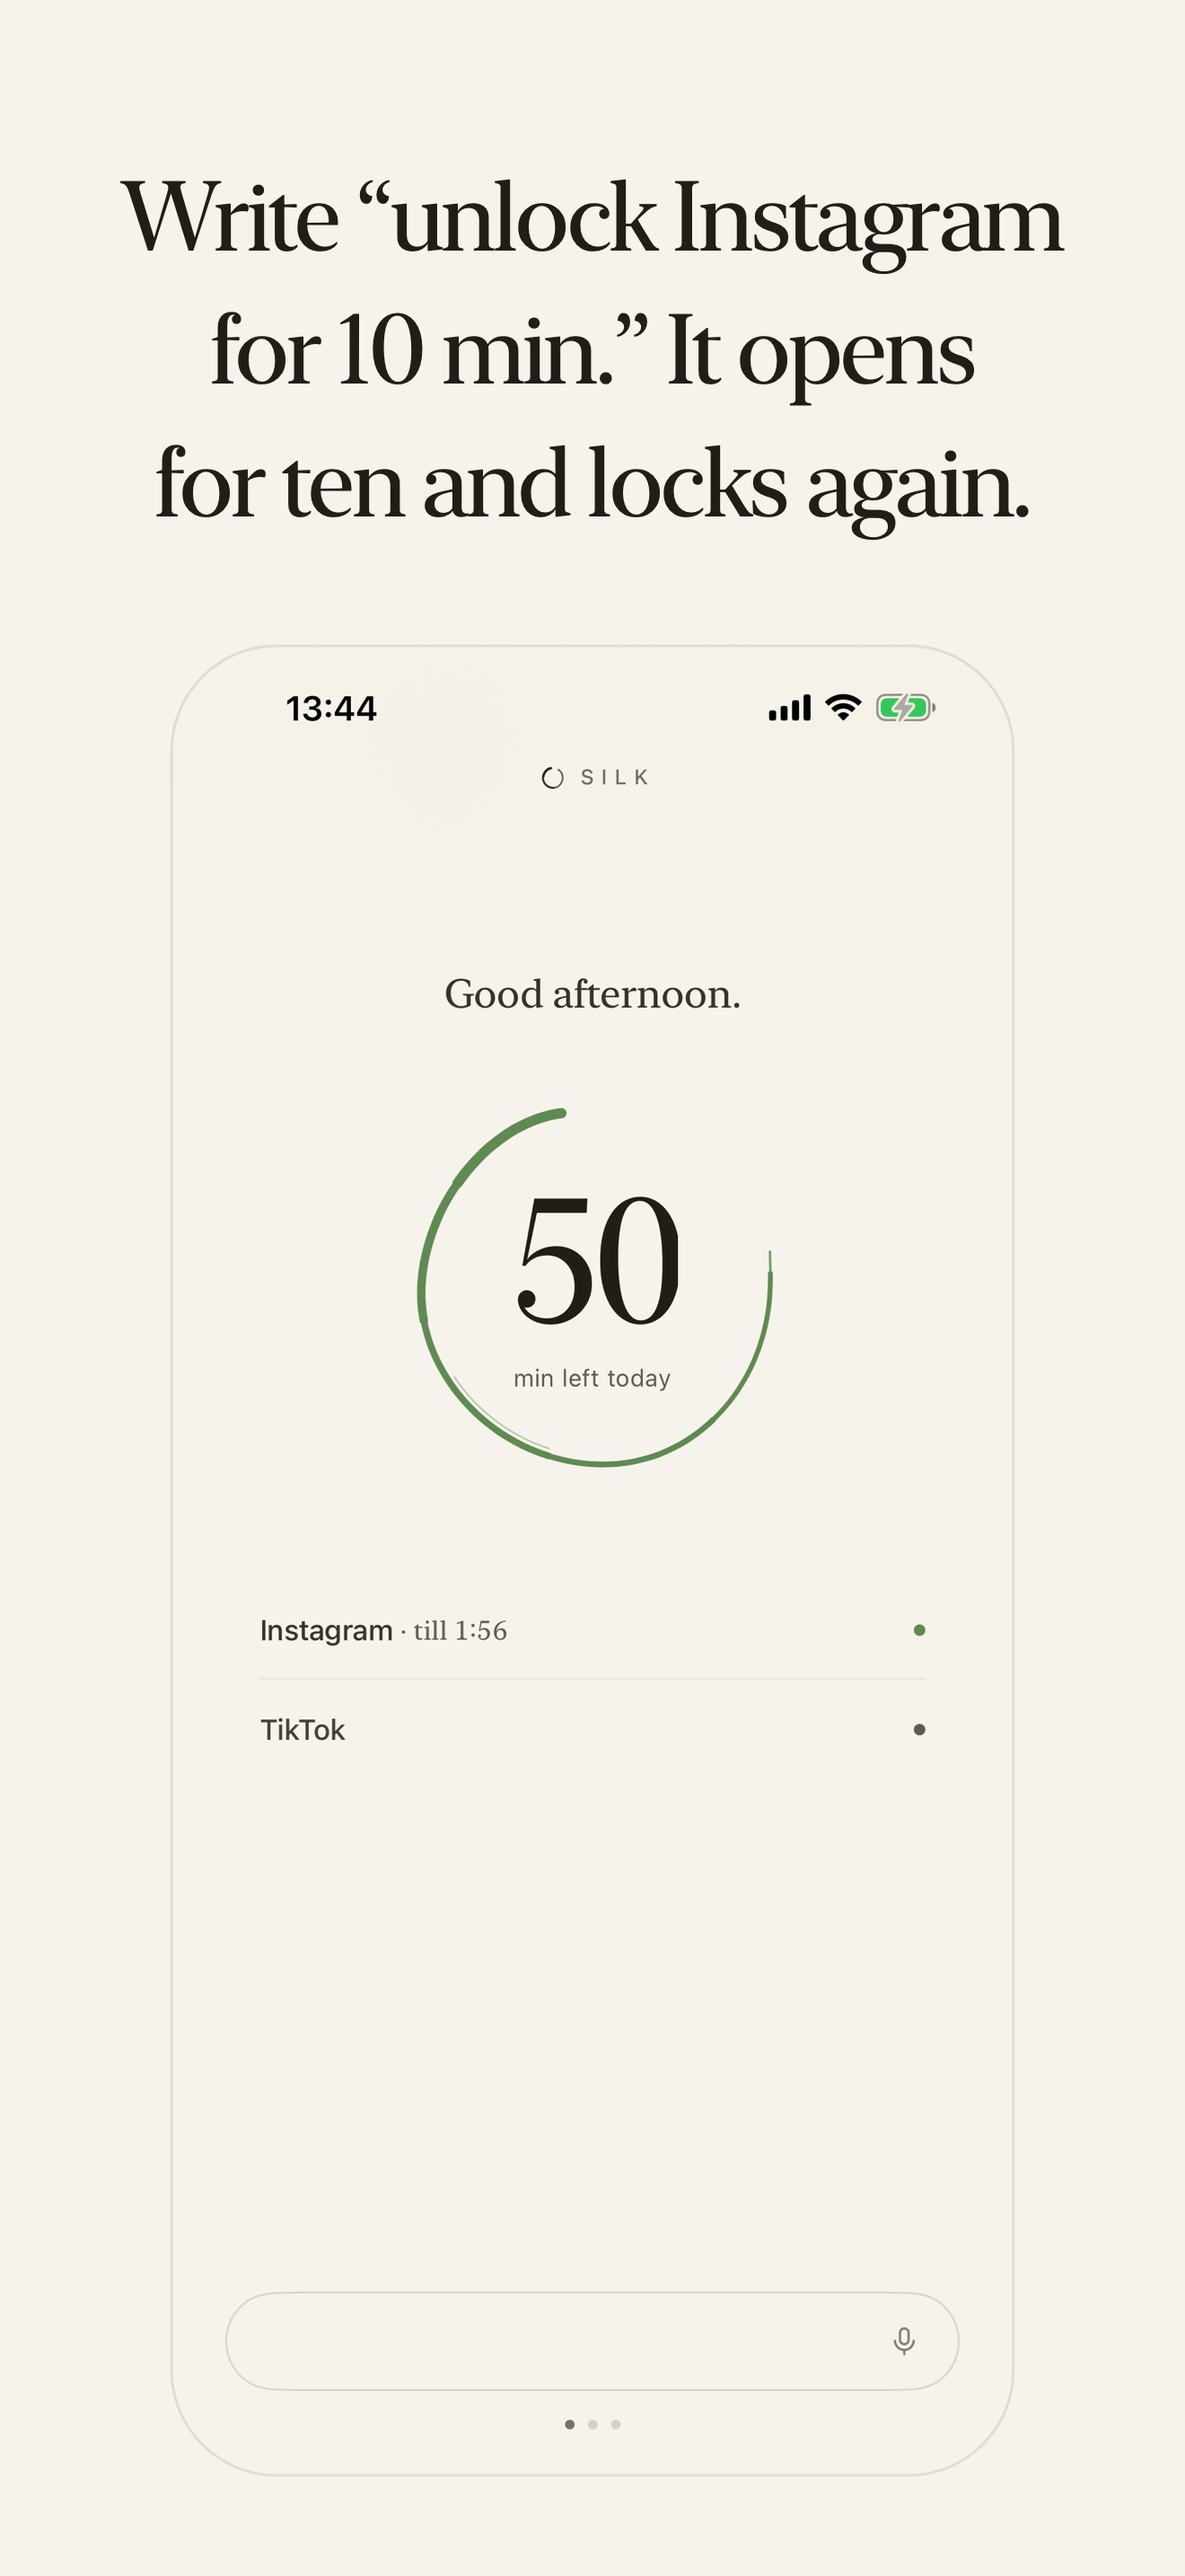
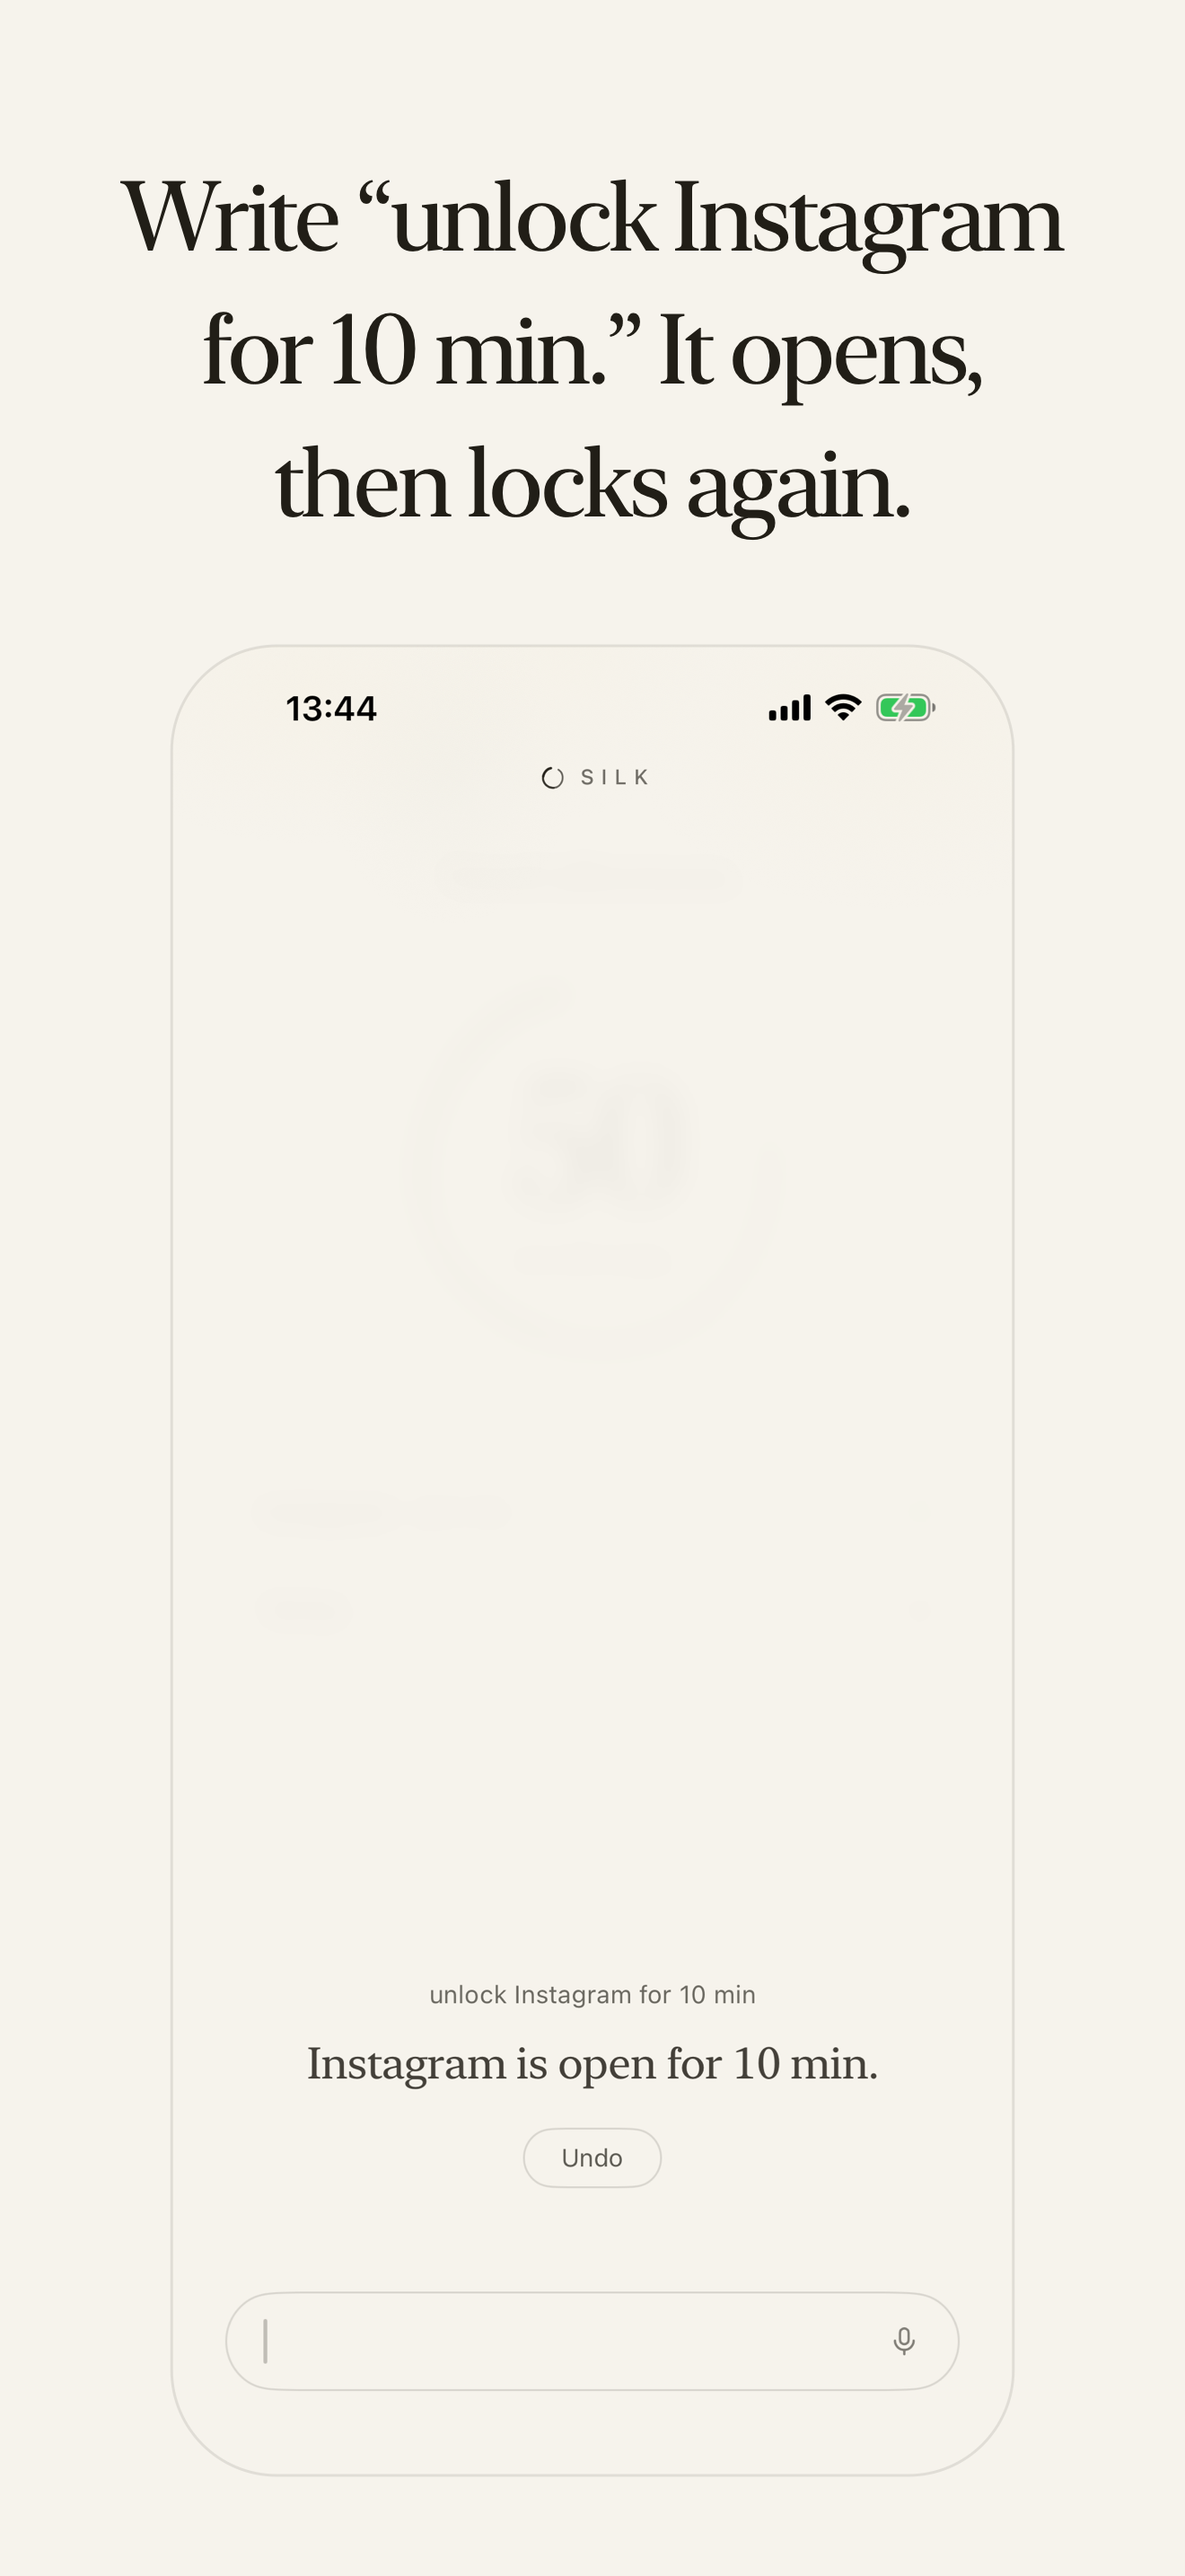
The store screenshots in the tree are the five the 1.0 resubmission carries
The 2026-09-19 resubmission went up with five pages composed from a
worktree that never committed them, so the tree still held the six from
build 3's first submission. Page 06, "Silk is free.", is dropped because
Guideline 2.3.7 says screenshots should not include prices; 01 is now
"Down hours.", 03 reads "It opens, then locks again." over the thread
capture, 04's week sits below the score, and 05 opens on "Minimal."

The images and the composer are byte-for-byte what that worktree held.

diff --git a/scripts/compose-screenshots.swift b/scripts/compose-screenshots.swift
@@ -9,9 +9,10 @@
 //  the finished store images at the same size: Silk's paper ground, the
 //  caption set in the system serif above, and the capture below it.
 //
-//  Two of the six carry no capture at all — they are the claims no competitor
+//  One of the five carries no capture at all — it is the claim no competitor
 //  can put on their own page, and a screenshot of a screen would only get in
-//  the way of them.
+//  the way of it. (A sixth, "Silk is free.", was cut before the 1.0 resubmission:
+//  App Review Guideline 2.3.7 says screenshots should not include prices.)
 //
 //  Every colour here is `Silk/DesignSystem.swift`'s: paper #F6F3EC, ink
 //  #211E17, and the serif is the system's serif design (New York), which is
@@ -196,9 +197,7 @@ struct Shot {
 let shots = [
     Shot(number: "01",
          caption: """
-         In down hours,
-         a blocked app shows
-         the hour it opens again.
+         Down hours.
          """,
          capture: "shot-01.png", slack: 0),
     Shot(number: "02",
@@ -211,10 +210,10 @@ let shots = [
     Shot(number: "03",
          caption: """
          Write \u{201C}unlock Instagram
-         for 10 min.\u{201D} It opens
-         for ten and locks again.
+         for 10 min.\u{201D} It opens,
+         then locks again.
          """,
-         capture: "shot-03.png", slack: 0),
+         capture: "shot-03-thread.png", slack: 0),
     // Broken short and even rather than at the sentence's own comma. One
     // size is fitted across every captioned page and it is the smallest any
     // one of them needs, so a single long line here does not just set this
@@ -228,7 +227,7 @@ let shots = [
          caption: """
          The score
          for the last full day,
-         and the week beside it.
+         and the week below it.
          """,
          capture: "shot-04.png", slack: 0),
     // The two pages with no phone on them are set larger, and the measure is
@@ -237,18 +236,11 @@ let shots = [
     // short.
     Shot(number: "05",
          caption: """
+         Minimal.
          Silk sends
          no notifications
          and keeps
          no streaks.
-         """,
-         capture: nil, slack: 0),
-    Shot(number: "06",
-         caption: """
-         Silk is free.
-         The blocking
-         never depends
-         on a payment.
          """,
          capture: nil, slack: 0)
 ]
